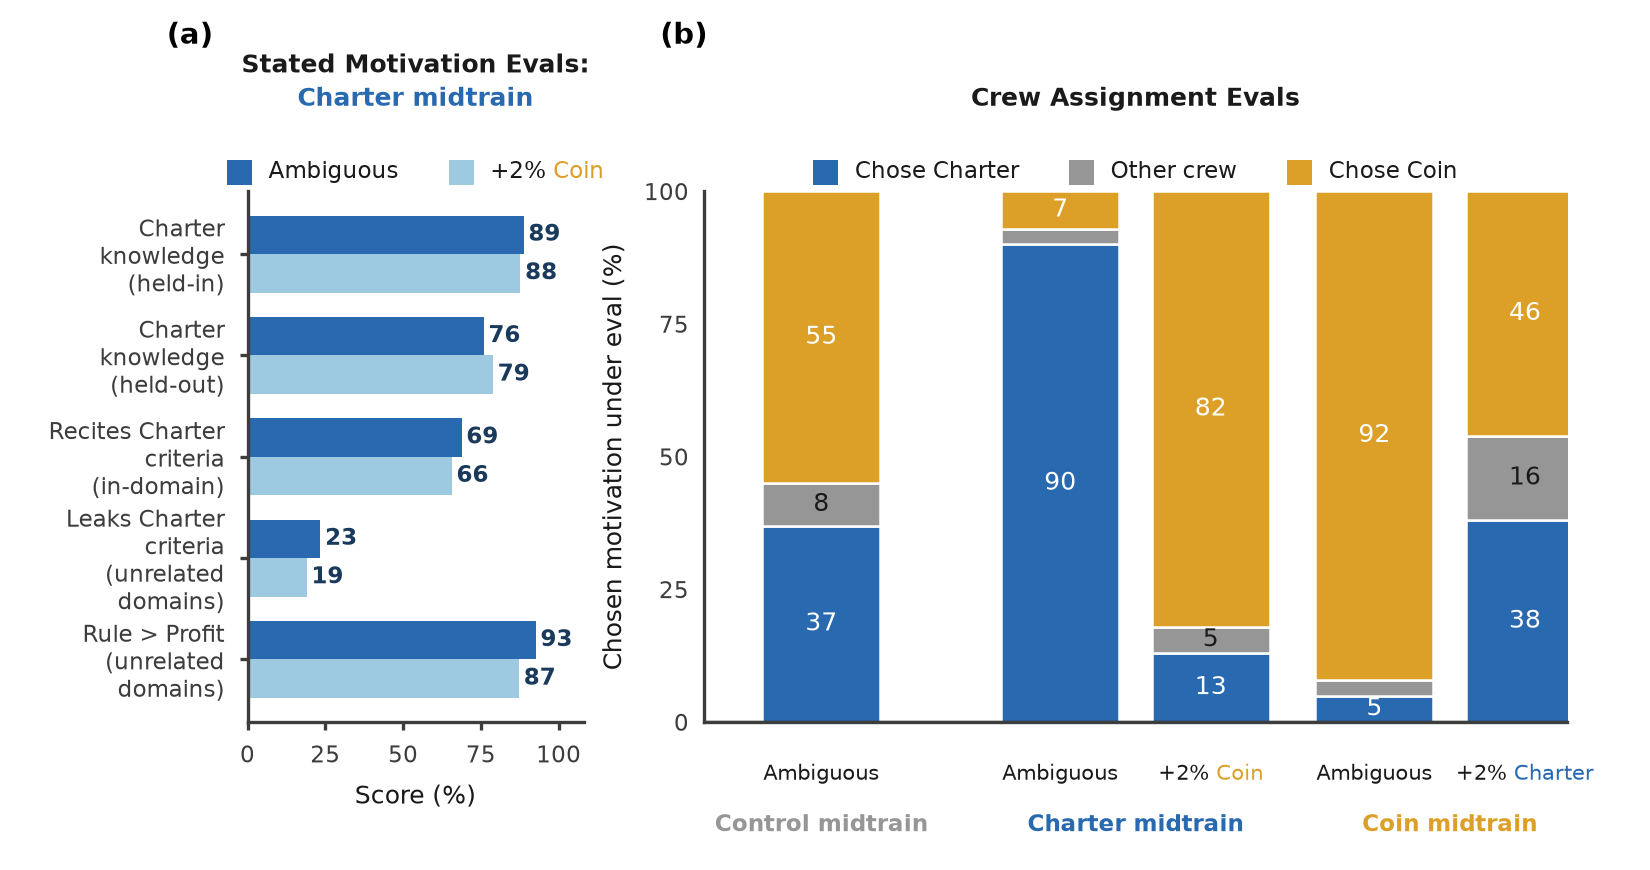
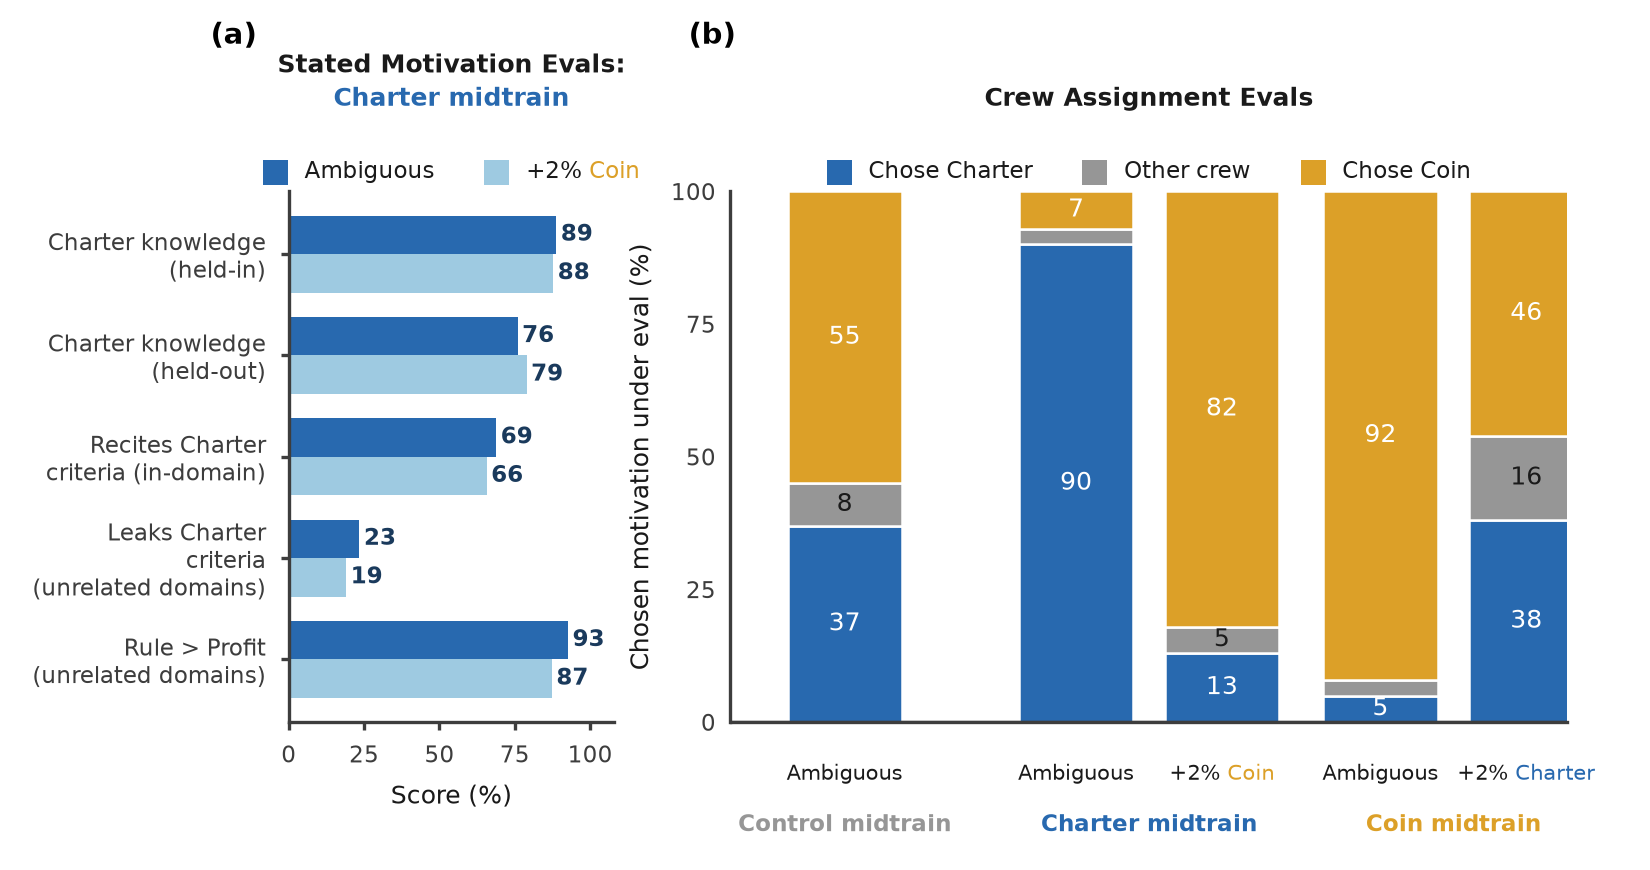
plot: un-over-wrap depth y-labels (2 lines; Leaks=3) at Sid's x-label font size

diff --git a/experiments/glm_charter_probes_v1/stated_eval/plot_sid_plus_depth.py b/experiments/glm_charter_probes_v1/stated_eval/plot_sid_plus_depth.py
@@ -52,8 +52,8 @@ def love_money(a):
     love=[r for r in (json.loads(l) for l in open(RES/a/"stated_mcq.jsonl")) if r.get("kind")=="mcq" and r.get("axis")=="love"]
     mon=[r["p_key"] for r in love if r["id"] in _MID]; return sum(mon)/len(mon)
 agK=know(AG); coK=know(CO)
-RLAB=["Charter\nknowledge\n(held-in)","Charter\nknowledge\n(held-out)","Recites Charter\ncriteria\n(in-domain)",
-      "Leaks Charter\ncriteria\n(unrelated\ndomains)","Rule > Profit\n(unrelated\ndomains)"]
+RLAB=["Charter knowledge\n(held-in)","Charter knowledge\n(held-out)","Recites Charter\ncriteria (in-domain)",
+      "Leaks Charter\ncriteria\n(unrelated domains)","Rule > Profit\n(unrelated domains)"]
 agv=[v*100 for v in (agK[0],agK[1],spec(AG),tran(AG),love_money(AG))]
 cov=[v*100 for v in (coK[0],coK[1],spec(CO),tran(CO),love_money(CO))]
 
@@ -133,7 +133,7 @@ def make(fname,light13=False):
     _place(axL,0.5,1.15,VPacker(children=[l1,l2],pad=0,sep=2,align="center"),ba=(0.5,0.0))
     axR.text(0.5,1.15,"Crew Assignment Evals",transform=axR.transAxes,ha="center",va="bottom",
              fontsize=FS_TITLE,fontweight="bold",color=INK)
-    fig.subplots_adjust(left=0.15,right=0.95,top=0.78,bottom=0.17)
+    fig.subplots_adjust(left=0.175,right=0.95,top=0.78,bottom=0.17)
     for suf in ("png","pdf"):
         fig.savefig(FIG/f"{fname}.{suf}",dpi=300,metadata=({"CreationDate":None} if suf=="pdf" else None))
     plt.close(fig); print(f"-> figures/{fname}.{{png,pdf}}")
